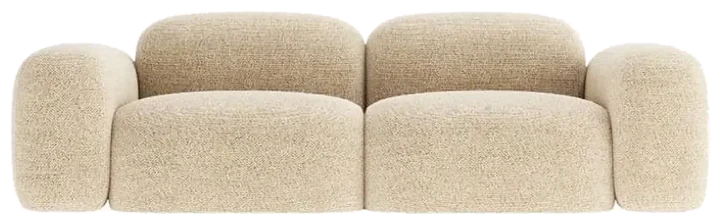
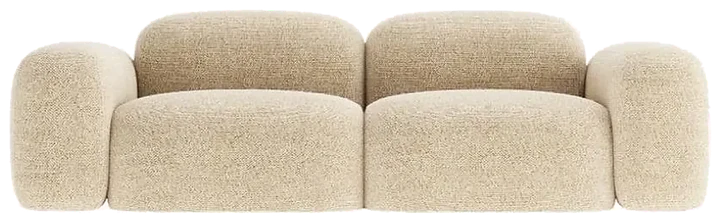
Качество фото: диван обложки 1978 px (Lanczos ×2 из рендера 1200), srcset 720/1400/1978
На экранах 2x–3x диван растягивался в 1,6–1,9 раза от файла 992 px и выглядел мыльно.
ИИ-апскейл (Real-ESRGAN x4plus и general-x4v3) отвергнут: дорисовывает на букле
несуществующее плетение. Пересобрана папка dist/RICCA-site.

Claude-Session: https://claude.ai/code/session_01YU1ch6YPskFUwqRi4VRrCW

diff --git a/dist/RICCA-site/index.html b/dist/RICCA-site/index.html
@@ -22,11 +22,11 @@
 <link rel="icon" href="img/v3/favicon-v3-32.png" sizes="32x32" type="image/png">
 <link rel="apple-touch-icon" href="img/v3/favicon-v3-180.png">
 <!-- диван первого экрана = LCP: грузится первым -->
-<link rel="preload" as="image" href="img/v3/hero-sofa-cut.webp" imagesrcset="img/v3/hero-sofa-cut-720.webp 720w, img/v3/hero-sofa-cut.webp 992w" imagesizes="(min-width: 900px) 60vw, 100vw" fetchpriority="high">
+<link rel="preload" as="image" href="img/v3/hero-sofa-cut.webp" imagesrcset="img/v3/hero-sofa-cut-720.webp 720w, img/v3/hero-sofa-cut-1400.webp 1400w, img/v3/hero-sofa-cut.webp 1978w" imagesizes="(min-width: 900px) 60vw, 100vw" fetchpriority="high">
 <link rel="preload" as="font" type="font/woff2" href="fonts/montserrat/montserrat-latin-var-normal.woff2" crossorigin>
 <link rel="preload" as="font" type="font/woff2" href="fonts/montserrat/montserrat-cyrillic-var-normal.woff2" crossorigin>
-<link rel="stylesheet" href="css/fonts-v3.css?v=f40000f0e0">
-<link rel="stylesheet" href="css/site.css?v=f40000f0e0">
+<link rel="stylesheet" href="css/fonts-v3.css?v=a5944d32c4">
+<link rel="stylesheet" href="css/site.css?v=a5944d32c4">
 <script>
 /* До первой отрисовки: no-js → js; решение о входе-«занавесе» (≤ 1,6 с). Не играем: повторный визит в этой сессии,
    prefers-reduced-motion, вход по ссылке с #якорем (Instagram → #catalog/sofas), недоступный sessionStorage.
@@ -122,7 +122,7 @@
       </h1>
       <a class="hero__pic" href="#work-m-sofa-19" aria-label="Диван Rasma — открыть модель">
         <span class="hero__floor" aria-hidden="true"></span>
-        <img src="img/v3/hero-sofa-cut.webp" srcset="img/v3/hero-sofa-cut-720.webp 720w, img/v3/hero-sofa-cut.webp 992w" sizes="(min-width: 900px) 60vw, 100vw" width="992" height="308" alt="Диван Rasma в светлом букле" fetchpriority="high" decoding="async">
+        <img src="img/v3/hero-sofa-cut.webp" srcset="img/v3/hero-sofa-cut-720.webp 720w, img/v3/hero-sofa-cut-1400.webp 1400w, img/v3/hero-sofa-cut.webp 1978w" sizes="(min-width: 900px) 60vw, 100vw" width="1978" height="609" alt="Диван Rasma в светлом букле" fetchpriority="high" decoding="async">
       </a>
     </div>
     <div class="hero__foot">
@@ -678,11 +678,11 @@
 
 <div class="toast" id="toast" role="status" aria-live="polite" hidden><span id="toast-text"></span><button type="button" class="toast__open" id="toast-open">Открыть</button></div>
 
-<script src="js/catalog-data.js?v=f40000f0e0" defer></script>
-<script src="js/works-data.js?v=f40000f0e0" defer></script>
-<script src="js/models-data.js?v=f40000f0e0" defer></script>
-<script src="js/fabrics-data.js?v=f40000f0e0" defer></script>
-<script src="js/cart.js?v=f40000f0e0" defer></script>
-<script src="js/site.js?v=f40000f0e0" defer></script>
+<script src="js/catalog-data.js?v=a5944d32c4" defer></script>
+<script src="js/works-data.js?v=a5944d32c4" defer></script>
+<script src="js/models-data.js?v=a5944d32c4" defer></script>
+<script src="js/fabrics-data.js?v=a5944d32c4" defer></script>
+<script src="js/cart.js?v=a5944d32c4" defer></script>
+<script src="js/site.js?v=a5944d32c4" defer></script>
 </body>
 </html>

diff --git a/dist/RICCA-site/js/site.js b/dist/RICCA-site/js/site.js
@@ -180,7 +180,8 @@
     const picks = [];
     FLIB.forEach((t) => { const c = t.collections[0]; if (!c) return; const ks = c.colours.filter((k) => k.src240).slice().sort((a, b) => lum(b.hex) - lum(a.hex)); if (!ks.length) return; picks.push([c, ks[Math.floor(ks.length * 0.25)]]); if (ks.length > 2) picks.push([c, ks[Math.floor(ks.length * 0.75)]]); });
     FLIB.forEach((t) => t.collections.slice(1).forEach((c) => { if (picks.length < 8 && c.colours[0]) picks.push([c, c.colours[Math.floor(c.colours.length / 2)]]); }));
-    box.innerHTML = picks.slice(0, 8).map(([c, k]) => `<img src="${esc(k.src240 || k.src450)}" width="160" height="160" alt="" loading="lazy" decoding="async">`).join('');
+    // srcset: на экранах 2x–3x плитка 155 px берёт файл 700 px (src450 → *-600.webp), а не 160 (src240 → *-160.webp) — иначе образец мыльный
+    box.innerHTML = picks.slice(0, 8).map(([c, k]) => `<img src="${esc(k.src240 || k.src450)}"${k.src240 && k.src450 ? ` srcset="${esc(k.src240)} 160w, ${esc(k.src450)} 700w" sizes="160px"` : ''} width="160" height="160" alt="" loading="lazy" decoding="async">`).join('');
   })();
   // лента «Наши работы» на главной: кадры из RICCA_WORKS_STRIP ([id, номер фото]); нет списка — первые фото первых работ
   (() => {
@@ -1094,9 +1095,10 @@
     const waOf = (w) => { const u = link(w); return waUrl(`Здравствуйте! Хочу ${want(w)} же: ${lcFirst(w.title)}${w.sub ? ` (${w.sub})` : ''}. Подскажите, пожалуйста, цену и что нужно для расчёта.${u ? `\n${u}` : ''}`); };
     const label = (w) => `${w.title}${w.sub ? `, ${w.sub}` : ''}`;
     const inCart = (w) => !!(RC && RC.list().some((x) => x.kind === 'catalog' && x.id === w.id));
-    // файл под рамку: телефон — всегда 800 px; компьютер — 1600, если 800 px мало для рамки на этом экране
+    // файл под рамку: 1600, если 800 px мало для рамки на этом экране (телефон с плотностью 3x — тоже: владелец 14 окт.,
+    // «качество фото хуже стало» — 800 px на экране 1170 px выглядели мыльно); иначе 800
     const fileOf = (p) => {
-      if (SMALL.matches || p.w <= p800(p).w) return p.src800;
+      if (p.w <= p800(p).w) return p.src800;
       const fw = frame.getBoundingClientRect().width || stage.clientWidth;
       return fw * (window.devicePixelRatio || 1) > p800(p).w * 1.08 ? p.src : p.src800;
     };

diff --git a/ricca/index.html b/ricca/index.html
@@ -22,7 +22,7 @@
 <link rel="icon" href="img/v3/favicon-v3-32.png" sizes="32x32" type="image/png">
 <link rel="apple-touch-icon" href="img/v3/favicon-v3-180.png">
 <!-- диван первого экрана = LCP: грузится первым -->
-<link rel="preload" as="image" href="img/v3/hero-sofa-cut.webp" imagesrcset="img/v3/hero-sofa-cut-720.webp 720w, img/v3/hero-sofa-cut.webp 992w" imagesizes="(min-width: 900px) 60vw, 100vw" fetchpriority="high">
+<link rel="preload" as="image" href="img/v3/hero-sofa-cut.webp" imagesrcset="img/v3/hero-sofa-cut-720.webp 720w, img/v3/hero-sofa-cut-1400.webp 1400w, img/v3/hero-sofa-cut.webp 1978w" imagesizes="(min-width: 900px) 60vw, 100vw" fetchpriority="high">
 <link rel="preload" as="font" type="font/woff2" href="fonts/montserrat/montserrat-latin-var-normal.woff2" crossorigin>
 <link rel="preload" as="font" type="font/woff2" href="fonts/montserrat/montserrat-cyrillic-var-normal.woff2" crossorigin>
 <link rel="stylesheet" href="css/fonts-v3.css">
@@ -122,7 +122,7 @@
       </h1>
       <a class="hero__pic" href="#work-m-sofa-19" aria-label="Диван Rasma — открыть модель">
         <span class="hero__floor" aria-hidden="true"></span>
-        <img src="img/v3/hero-sofa-cut.webp" srcset="img/v3/hero-sofa-cut-720.webp 720w, img/v3/hero-sofa-cut.webp 992w" sizes="(min-width: 900px) 60vw, 100vw" width="992" height="308" alt="Диван Rasma в светлом букле" fetchpriority="high" decoding="async">
+        <img src="img/v3/hero-sofa-cut.webp" srcset="img/v3/hero-sofa-cut-720.webp 720w, img/v3/hero-sofa-cut-1400.webp 1400w, img/v3/hero-sofa-cut.webp 1978w" sizes="(min-width: 900px) 60vw, 100vw" width="1978" height="609" alt="Диван Rasma в светлом букле" fetchpriority="high" decoding="async">
       </a>
     </div>
     <div class="hero__foot">

diff --git a/dist/RICCA-site/configurator.html b/dist/RICCA-site/configurator.html
@@ -12,17 +12,17 @@
 <link rel="apple-touch-icon" href="img/v3/favicon-v3-180.png">
 <link rel="preload" as="font" type="font/woff2" href="fonts/montserrat/montserrat-latin-var-normal.woff2" crossorigin>
 <link rel="preload" as="font" type="font/woff2" href="fonts/montserrat/montserrat-cyrillic-var-normal.woff2" crossorigin>
-<link rel="stylesheet" href="css/fonts-v3.css?v=f40000f0e0">
-<link rel="stylesheet" href="css/configurator.css?v=f40000f0e0">
+<link rel="stylesheet" href="css/fonts-v3.css?v=a5944d32c4">
+<link rel="stylesheet" href="css/configurator.css?v=a5944d32c4">
 <script>document.documentElement.classList.replace('no-js', 'js');</script>
 <script type="importmap">{"imports":{"three":"./vendor/three/build/three.module.js","three/addons/":"./vendor/three/addons/"}}</script>
-<link rel="modulepreload" href="js/cfg/app.js?v=f40000f0e0">
-<link rel="modulepreload" href="js/cfg/params.js?v=f40000f0e0">
-<link rel="modulepreload" href="js/cfg/validate.js?v=f40000f0e0">
-<link rel="modulepreload" href="js/cfg/share.js?v=f40000f0e0">
-<link rel="modulepreload" href="js/cfg/fabrics.js?v=f40000f0e0">
-<script defer src="js/fabrics-data.js?v=f40000f0e0"></script>
-<script type="module" src="js/cfg/app.js?v=f40000f0e0"></script>
+<link rel="modulepreload" href="js/cfg/app.js?v=a5944d32c4">
+<link rel="modulepreload" href="js/cfg/params.js?v=a5944d32c4">
+<link rel="modulepreload" href="js/cfg/validate.js?v=a5944d32c4">
+<link rel="modulepreload" href="js/cfg/share.js?v=a5944d32c4">
+<link rel="modulepreload" href="js/cfg/fabrics.js?v=a5944d32c4">
+<script defer src="js/fabrics-data.js?v=a5944d32c4"></script>
+<script type="module" src="js/cfg/app.js?v=a5944d32c4"></script>
 </head>
 <body>
 <a class="skip" href="#steps">Перейти к&nbsp;параметрам</a>
